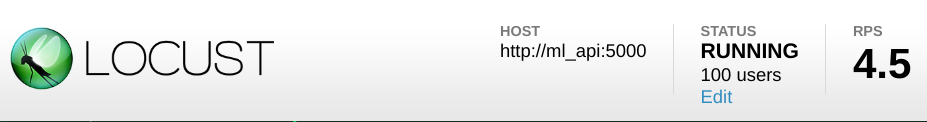
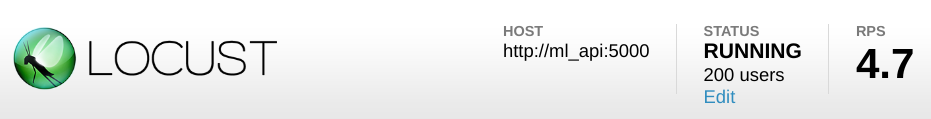
point scaling complete

diff --git a/ml-api-public/p2_mlapi.md b/ml-api-public/p2_mlapi.md
@@ -180,9 +180,16 @@ cantidad de réplicas que tenemos del contenedor *model* y visualizar las mejora
 en grafana usando nuestro cliente locust para exigir la carga. Para ello deberán
 utilizar el comando `docker-compose scale <SERVICE>=<#INSTANCES>`
 
-#### Resultados worker = 1
+#### Especificaciones de la Maquina
+ * Intel(R) Core(TM) i7-6700 CPU @ 3.40GHz
+ * 8 Threads
+ * 16 GB RAM
 
-Locust
+Las pruebas fueron usando locust 200 usuarios con una tasa de crecimiento de 1
+
+### Resultados worker = 1
+
+#### Locust
 
 <img 
       src="./doc/replica_01_locust.png" 
@@ -190,7 +197,7 @@ Locust
   /> 
 
 
-Grafana
+#### Grafana
 
 <img 
       src="./doc/replica_01_grafana.png" 
@@ -198,15 +205,34 @@ Grafana
   /> 
 
 
-#### Rsultados worker = 2
+### Rsultados worker = 2
 
 Comando utilizado
 
 ```sh
 docker-compose -f docker-compose.yml up --scale model=2
 ```
+#### Locust
 
+<img 
+      src="./doc/replica_02_locust.png" 
+      width=90% 
+  /> 
 
+Se puede apreciar que aumentando el modelo a 2 workers se tiene un mayor numero
+de respuestas por segundo. Aumentando el desemepeño del sistema.
+
+#### Grafana
+
+<img 
+      src="./doc/replica_02_grafana.png" 
+      width=90% 
+  /> 
+
+Tambien se observa las mejoras usando grafana. Hay que tener en consideracion
+que las mejoras se pueden observar si se dispone de recursos (ejm RAM) ya que
+inicialemnte el escalamiento fue probado en un PC con 8 GB. Y el rendimiento en
+lugar de mejorar, eran peores (las respuestas por segundo oscilaban en un 1.3).
 
 
 ## (Opcional) 4. Obtener y almacenar feedback de usuarios
